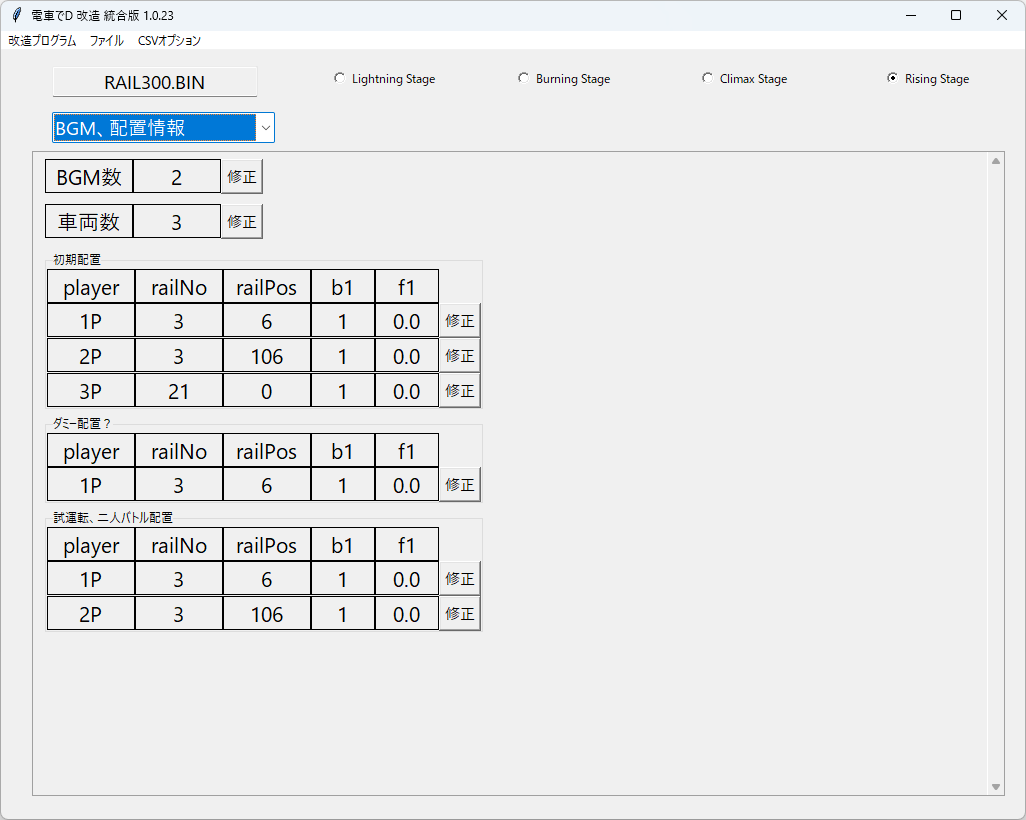
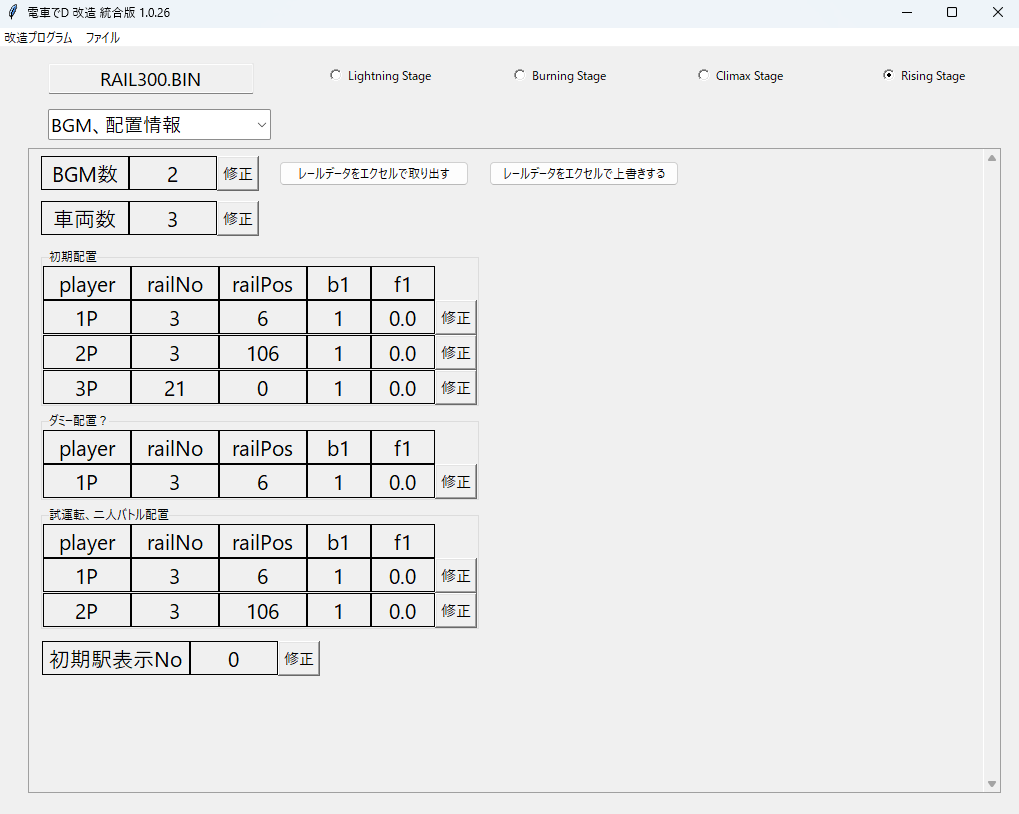
image update

diff --git a/program/railEditor/README.md b/program/railEditor/README.md
@@ -21,6 +21,8 @@ BGMの数、登場させる車両の数、
 
 それぞれ初期配置の位置を調整できる
 
+また、エクセルでレールデータを取り出し、上書きすることができる。
+
 ### 要素１
 
 ![else1](image/else1.png)
